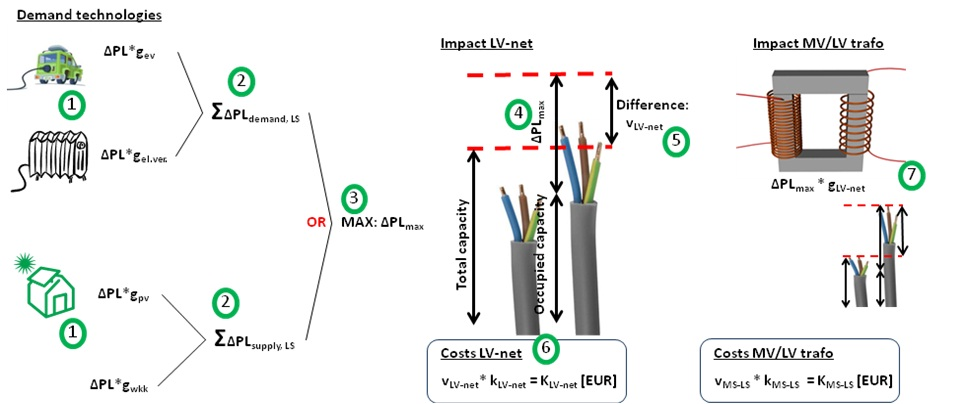
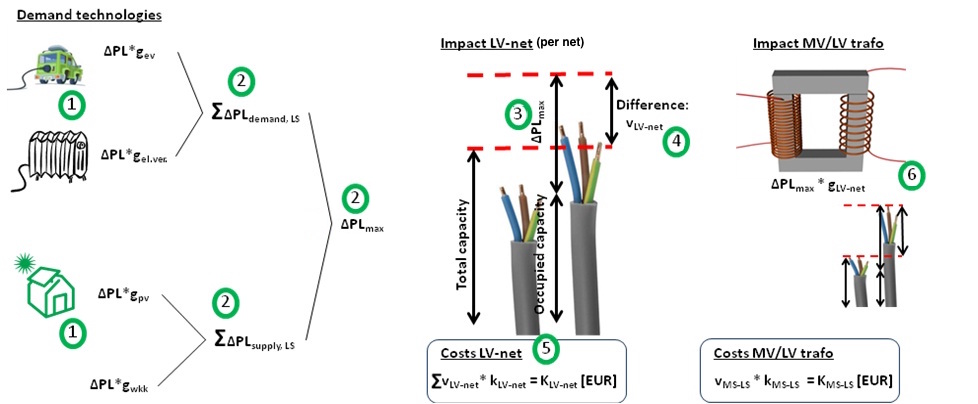
Updated the documentation on the network calculation

diff --git a/general/network.md b/general/network.md
@@ -1,8 +1,8 @@
 # Network impact calculation
 
-The network impact calculation is a module that currently only works for the Dutch version of the ETM. The calculation determines the investment required in the electricity grid depending on the choices made by the users. For example, in a scenario with a large share of electric heaters the capacity of the current electricity grid is not sufficient to meet all demand.
+The network impact calculation is a module that currently only works for the Dutch version of the ETM. The calculation determines the investment required in the electricity grid depending on the choices made by the users. For example, in a scenario with a large share of electric heaters the capacity of the current electricity grid is not sufficient to transport all demand.
 
-The results of the Network Impact calculation are two graphs on the front end of the model: ‘Required additional infrastructure investments’ and ‘Annual infrastructure costs’. The first graph shows the total additional investment required in the electricity grid for certain scenarios and the second shows these costs in annual costs including operation and maintenance costs and interest.
+The results of the network impact calculation are displayed in a chart in the front end of the model (‘Required additional infrastructure investments’). This chart shows the total additional investment required in the electricity grid for the current scenario. In addition, the annualized investment costs including operation and maintenance costs and interest for the required network expansion are  included in the costs dashboard item in the front end of the model.
 
 Network calculation definitions
 -------------------------------
@@ -19,7 +19,7 @@ The change in the peak load is called the peak load delta. The network impact ca
 
 **(Network) Impact**
 
-The required network expansion is determined by finding the required network capacity (MVA) necessary to meet the future scenario. A higher impact therefore means a larger capacity of cables and transformers is required in a given scenario. In the ETM impact is often expressed in Euro by multiplying the required capacity by the cost coefficients (EUR/MVA).
+The required network expansion is determined by finding the required network capacity (MVA) necessary to meet loads in the future scenario. A higher impact therefore means a larger capacity of cables and transformers is required in a given scenario. In the ETM impact is often expressed in Euro by multiplying the required capacity by the cost coefficients (EUR/MVA).
 
 **Capacity**
 
@@ -27,7 +27,7 @@ Cables and transformers have a maximum capacity; they can only carry so much ele
 
 **Simultaneousness**
 
-Each technology has a certain peak load; however these peak loads do not occur at the same time. Therefore to describe the overlap between peak loads the term simultaneousness is used. Simultaneousness is the probability that two peaks fall in the same time. Simultaneousness has a maximum value of 100%. Example: Electric vehicles have a simultaneousness of 19% in the summer and winter evenings periods. This is because not everyone will charge their electric vehicle at the same time. Heat pumps on the other hand have a simultaneousness of 100%, this is because it is certain that on a very cold day all the heat pumps will be on at the same time.
+Each technology has a certain peak load; however these peak loads do not occur at the same time. Therefore to describe the overlap between peak loads the term simultaneousness is used. Simultaneousness is the probability that two peaks fall in the same time. Example: Electric vehicles have a simultaneousness of ~25% in the summer and winter evenings periods. This is because not everyone will charge their electric vehicle at the same time. Heat pumps on the other hand have a simultaneousness of 100%, this is because it is certain that on a very cold day all the heat pumps will be on at the same time.
 
 Network calculation basics
 --------------------------
@@ -38,14 +38,14 @@ The six levels that are defined are: Low voltage network (LV network), Medium/Lo
 
 The following figure shows a schematic of the electricity grid and the model considered by the ETM. ![](../images/Schematic_of_electricity_grid.jpg "fig:Schematic of electricity grid.jpg")
 
-The most important difference between the actual grid and the model used in the ETM is that the ETM model consists of only one component per level (i.e. instead of taking into account the thousands of cables and transformers that compose the actual grid, the ETM views these as a single cable or transformer for each level.)
+In reality each voltage level consists of many individual assets (cable or transformers). These assets do not have the same degree of occupancy; some will have hardly any available capacity, while others have ample. Since we cannot model each individual asset, we have grouped the assets in a representative amount of bins, each bin representing an identical amount of capacity. We assign an average availability to each of the capacity bins in that voltage level. We then distribute the peak load evenly over the bins and determine for each bin how much capacity needs to be added. The total required additional capacity is the sum of these extra capacities per bin.
 
-To calculate the network impact both a bottom up and a top down calculation are used. The bottom up calculation is used to calculate the impact on the LV network up to the HV/MV transformer and the top down calculation is used for the impact on the HV network.
+To calculate the network impact both a bottom up and a top down calculation are used. The bottom up calculation is used to calculate the impact on the LV network up to and including the HV/MV transformer and the top down calculation is used for the impact on the HV network.
 
 Network impact bottom up calculation
 ------------------------------------
 
-The bottom up calculation is used to calculate the impact of a user's scenario on the LV network up to the HV/MV transformer level.
+The bottom up calculation is used to calculate the impact of a user's scenario on the LV network up to and including the HV/MV transformer level.
 
 The approach assumes that the networks are connected in linear fashion and that any electricity produced at the lowest level flows up through the higher levels. This implies that for each level it is necessary to consider what the impact is at the current level as well as what the impact is of the flow of electricity from lower levels. This concept is depicted in the following figure:
 
@@ -55,19 +55,17 @@ To calculate the impact at a given level it is necessary to know what technologi
 
 ![](../images/Network_example_calculation.jpg "Network example calculation.jpg")
 
-1. The technologies that affect the electricity grid (such as heat pumps, solar panels, electric vehicles, etc.) are split into two categories: supply and demand technologies. For each technology the delta peak load of a single unit is calculated and multiplied by the simultaneousness.
+1. The technologies that affect the electricity grid (such as heat pumps, solar panels, electric vehicles, etc.) are connected to a specific voltage level. For each technology the delta peak load of a single technology is calculated and multiplied by the simultaneousness. These technologies include both supply and demand technologies.
 
 2. The peak loads for the supply and demand technologies are summed up.
 
-3. The peak load of the supply and demand is compared and the maximum delta peak load is found.
+3. For each level of the electricity network a total capacity and an occupied capacity are defined. These capacities are added up to give the total capacity for that voltage level. As described above, the assets in each voltage level are binned into a representative number of bins with equal capacity and per bin the average availability is defined.
 
-4. For each level of the electricity network a total capacity and an occupied capacity are defined. The max delta peak load is added on top of the currently occupied capacity.
+4. The peak load as derived in step 2 is divided equally over the bins mentioned in step 3 and for each bin we determine if there is still enough available capacity to facilitate the peak load. If not the assets in that bin will be expanded by the lacking capacity.
 
-5. If the occupied capacity plus the delta peak load capacity exceed the total capacity then investments are required in the electricity grid.
+5. The required investment is calculated by multiplying the difference in capacity by the network expansion coefficients.
 
-6. The required investment is calculated by multiplying the difference in capacity by the network expansion coefficients.
-
-7. To calculate the impact at the next level the impact of the previous level is taken into account along with the simultaneousness.
+6. To calculate the impact at the next level the impact of the previous level is taken into account along with the simultaneousness.
 
 Network top down calculation
 ----------------------------
